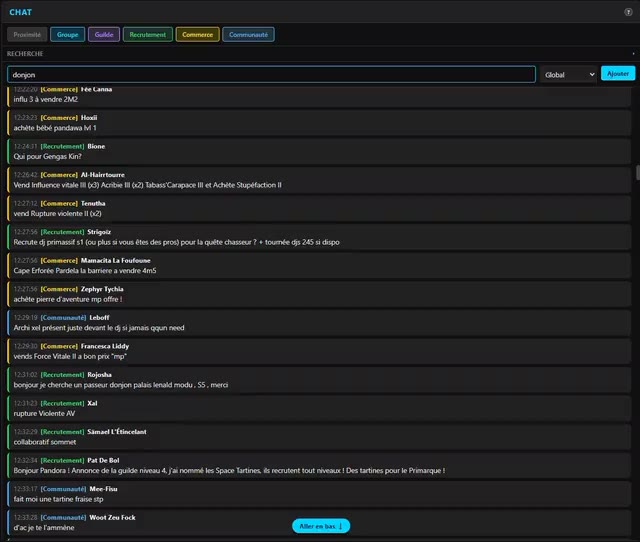
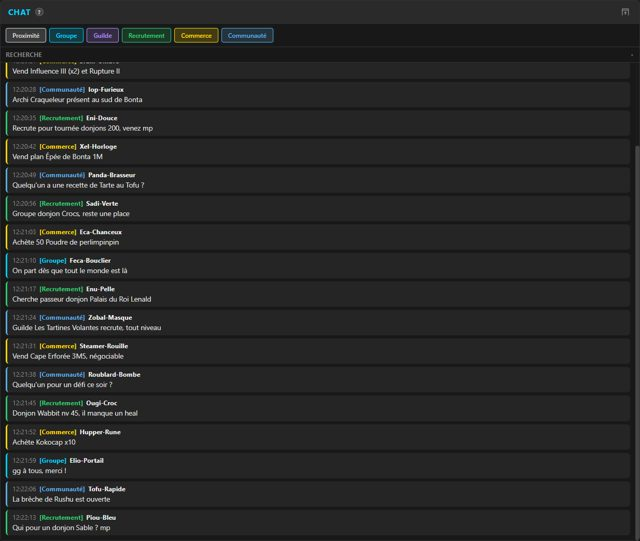
fix: GIF d'onboarding du chat sans données réelles
Le GIF chat.gif et son poster publiaient les pseudonymes réels et les
messages intégraux d'une vingtaine de joueurs tiers (constat C1 de
l'audit RGPD du 2026-09-20). Réenregistrés en Chrome réel avec des
lignes de chat synthétiques (pseudonymes et messages inventés) poussées
sur newLines$, même gabarit 1234x1044 ; frames assemblées en GIF
(718 Ko au lieu de 1,9 Mo). Rappel dans onboarding-slides.data.ts :
relire chaque frame avant de remplacer une capture, check-fixtures ne
voit pas une image.

diff --git a/src/app/core/data/onboarding-slides.data.ts b/src/app/core/data/onboarding-slides.data.ts
@@ -4,7 +4,15 @@ import { OnboardingIconName } from '../../shared/onboarding-icon/onboarding-icon
  * `poster` (aperçu statique) affichée en attendant que le fichier réel (potentiellement volumineux
  * pour un GIF non recompressé) finisse de charger — voir OnboardingTourComponent, qui fait un
  * fondu enchaîné entre les deux. `null` pour les 2 diapositives de bord (bienvenue/fin), qui n'ont
- * qu'une grande icône plutôt qu'une démonstration. */
+ * qu'une grande icône plutôt qu'une démonstration.
+ *
+ * ⚠ Données FACTICES uniquement dans ces captures (RGPD) : `chat.gif` a été publié pendant plusieurs
+ * semaines avec les pseudonymes réels et les messages intégraux d'une vingtaine de joueurs tiers
+ * (constaté à l'audit du 2026-09-20, réenregistré le même jour avec des lignes synthétiques poussées
+ * sur `newLines$`, voir le skill `verify-wakfu-companion`). `tools/check-fixtures.mjs` ne voit pas
+ * une image : avant de remplacer un GIF/poster, relire chaque frame (pseudos, messages de chat,
+ * partenaires d'échange, noms de personnages) — c'est une diffusion publique de données de tiers
+ * sans base légale, pas un simple détail cosmétique. */
 export interface OnboardingSlideMedia {
   readonly kind: 'gif' | 'video';
   readonly src: string;
